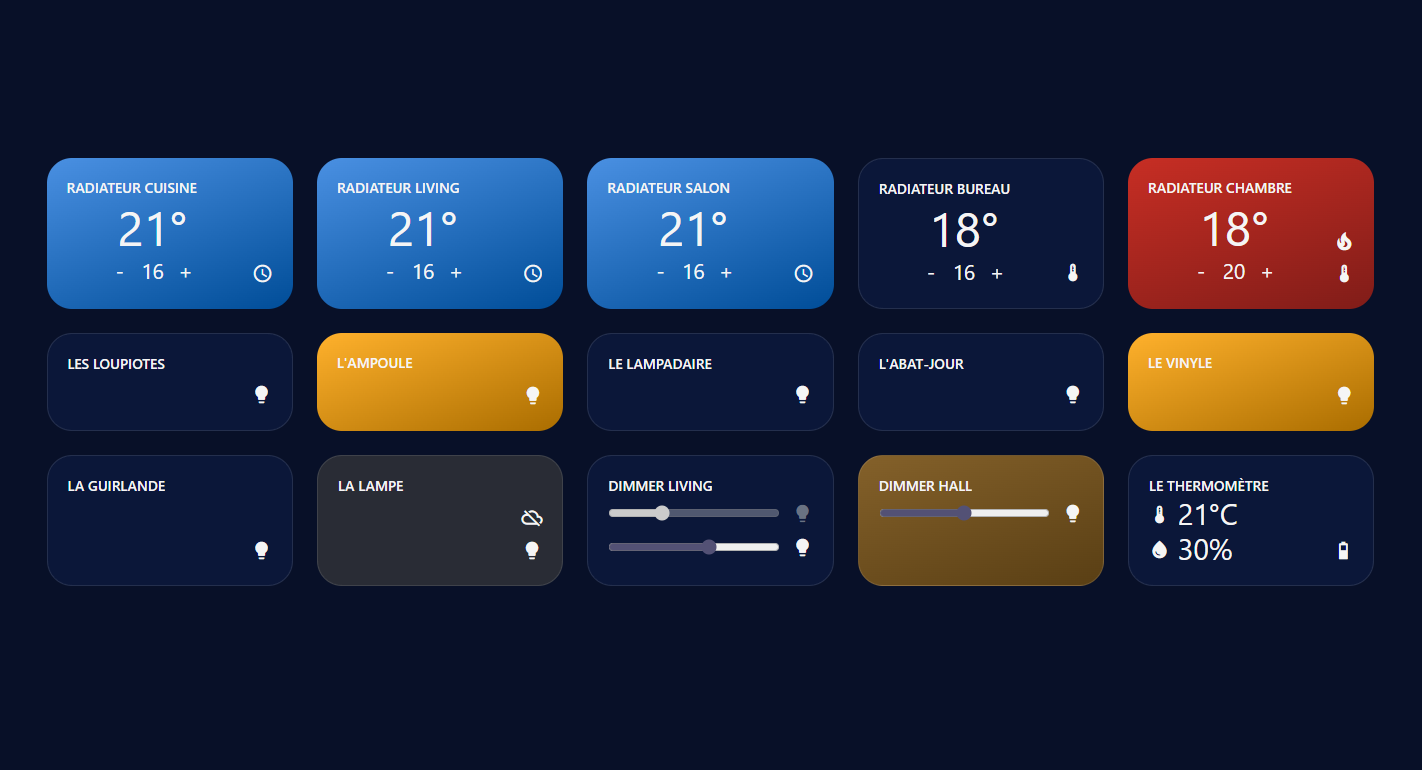
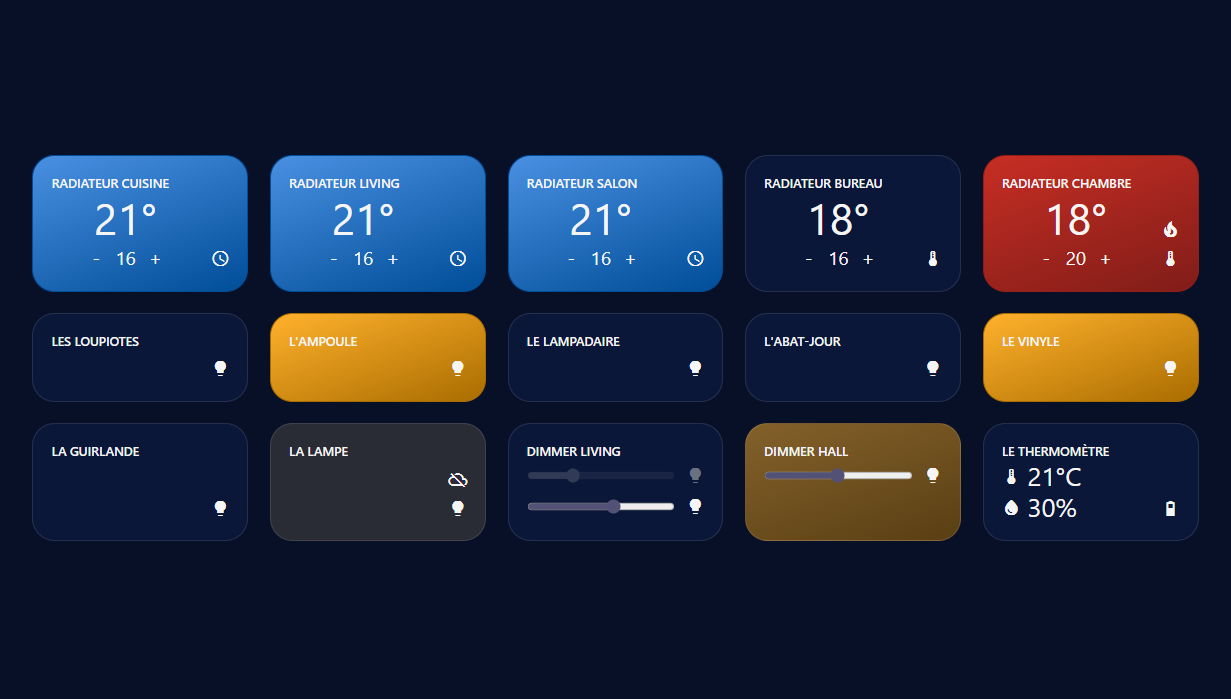
feat(dimmerSwitch): style for range

diff --git a/front/src/app/shared/device/components/dimmer-switch/dimmer-switch.component.scss b/front/src/app/shared/device/components/dimmer-switch/dimmer-switch.component.scss
@@ -11,3 +11,8 @@ input[type="range"] {
     cursor: grab;
   }
 }
+
+input[type="range"]:disabled {
+  cursor: default;
+  opacity: 0.2;
+}
